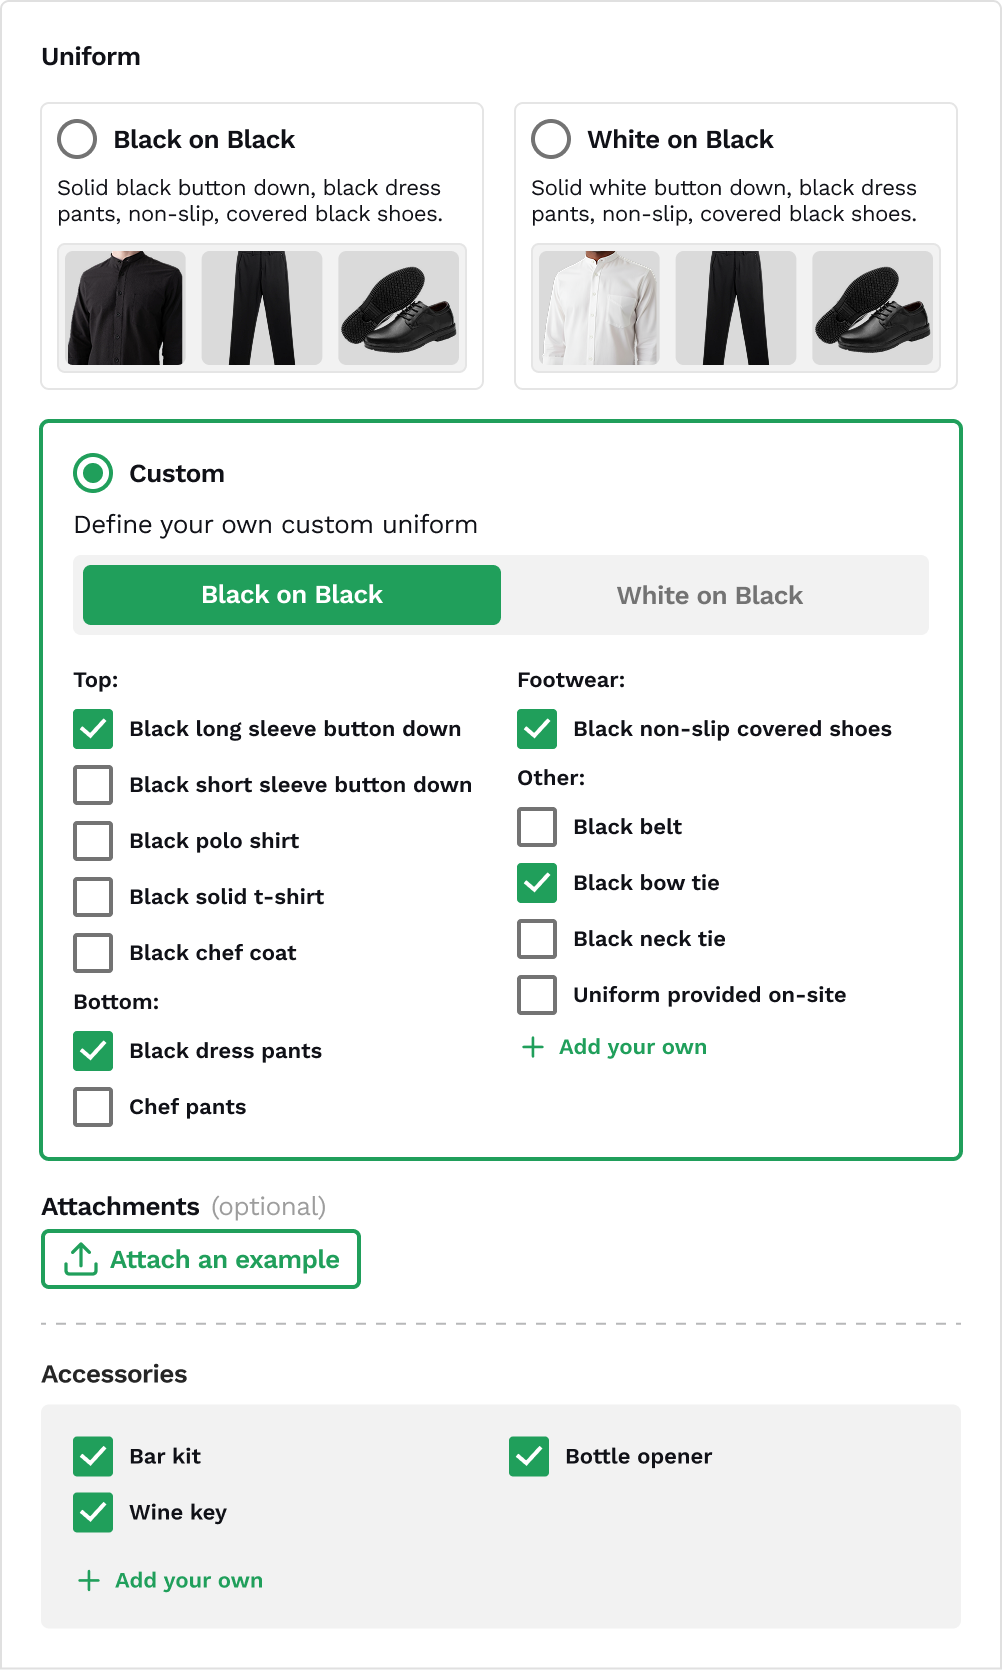
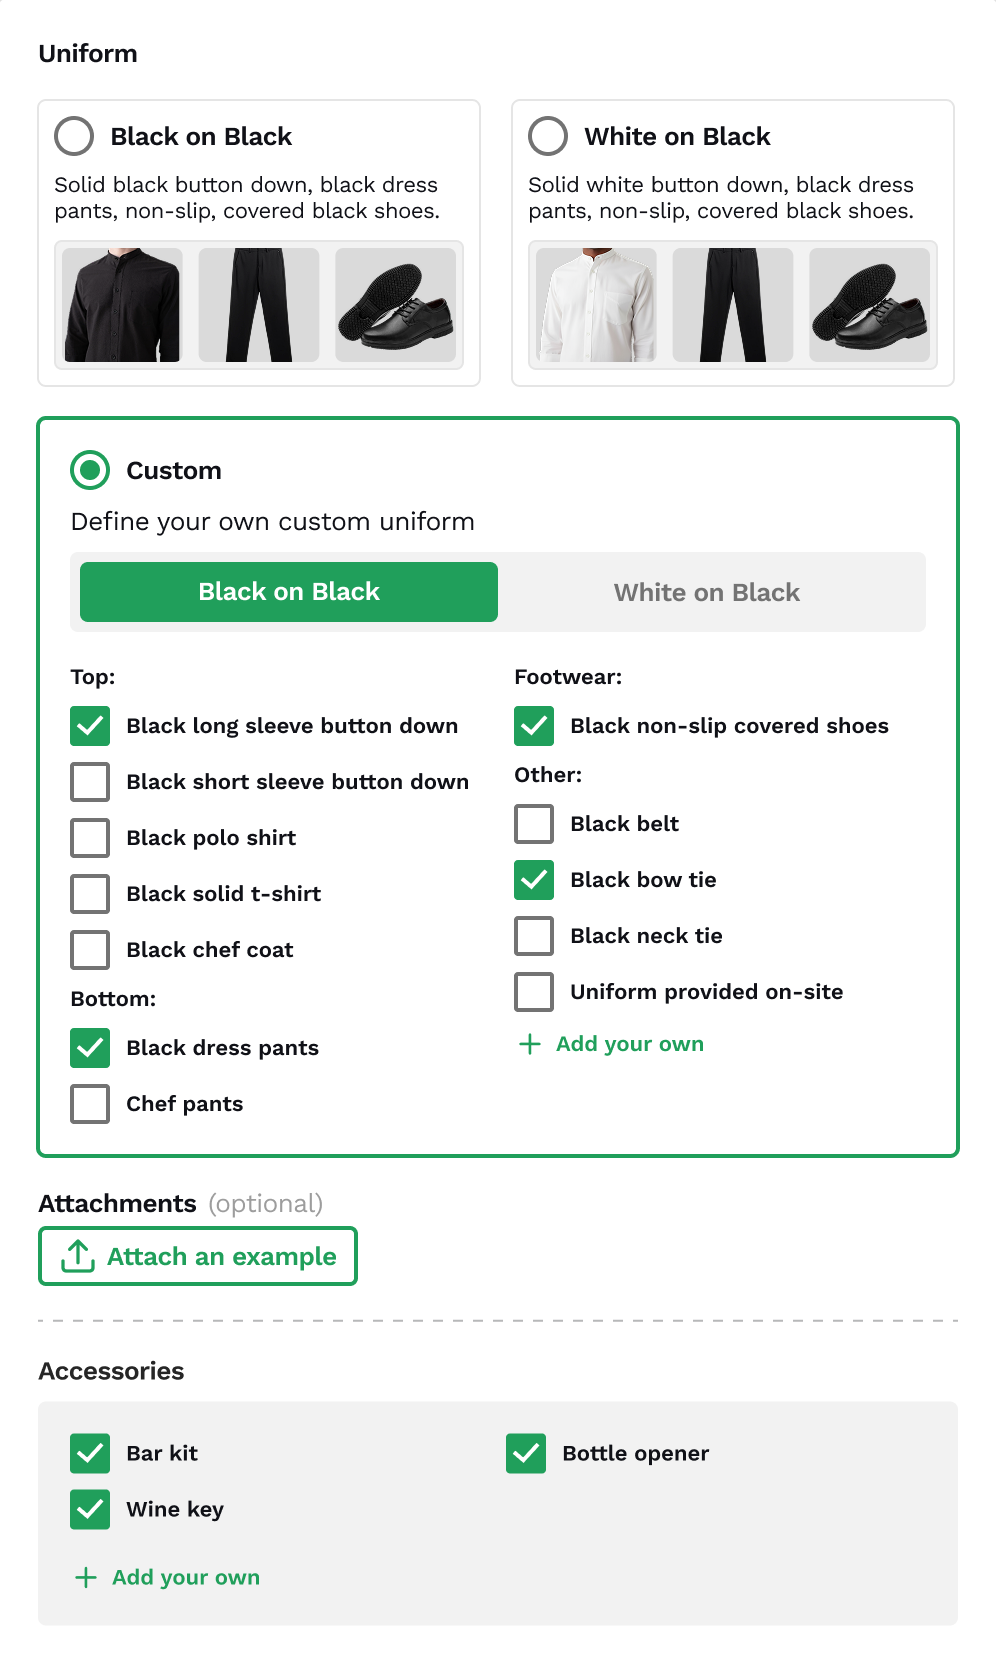
Fix mismatched corner clipping on uniform requirements screenshot
The source PNG had its own baked-in 2px square-cornered border, which
clashed with the container's rounded-corner clipping. Cropped the
baked-in border and switched to the site's standard clean-border
treatment instead.

diff --git a/case-study-trust.html b/case-study-trust.html
@@ -192,7 +192,7 @@
 
         <p class="eyebrow case-insight__eyebrow">Setting clearer shift expectations</p>
         <p>Verified qualifications made eligibility visible, but reliability also depended on clear expectations for each shift. Pros frequently arrived out of uniform, sometimes resulting in businesses sending them home. I redesigned the posting flow to better guide businesses in defining shift-specific expectations, including uniforms, and make those requirements clear to Pros before they applied or confirmed.</p>
-        <img class="case-image-full case-image-small" src="Assets/uniform_template.png" alt="Shift posting flow showing preset and custom uniform options, including top, bottom, footwear, and accessory requirements" loading="lazy" data-reveal />
+        <img class="case-image-full case-image-small case-image-bordered" src="Assets/uniform_template.png" alt="Shift posting flow showing preset and custom uniform options, including top, bottom, footwear, and accessory requirements" loading="lazy" data-reveal />
         <p class="case-figcaption-standalone">Businesses could choose a preset uniform or define custom requirements down to the accessory, so expectations were clear before a Pro ever applied.</p>
       </section>
 
